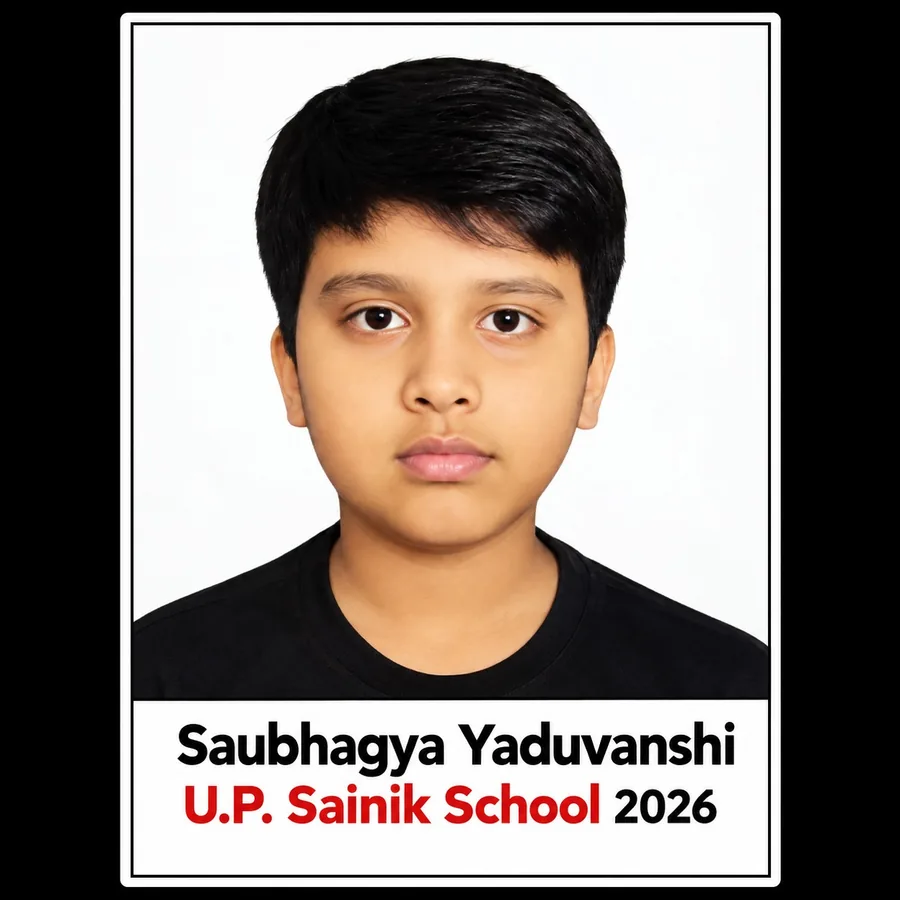
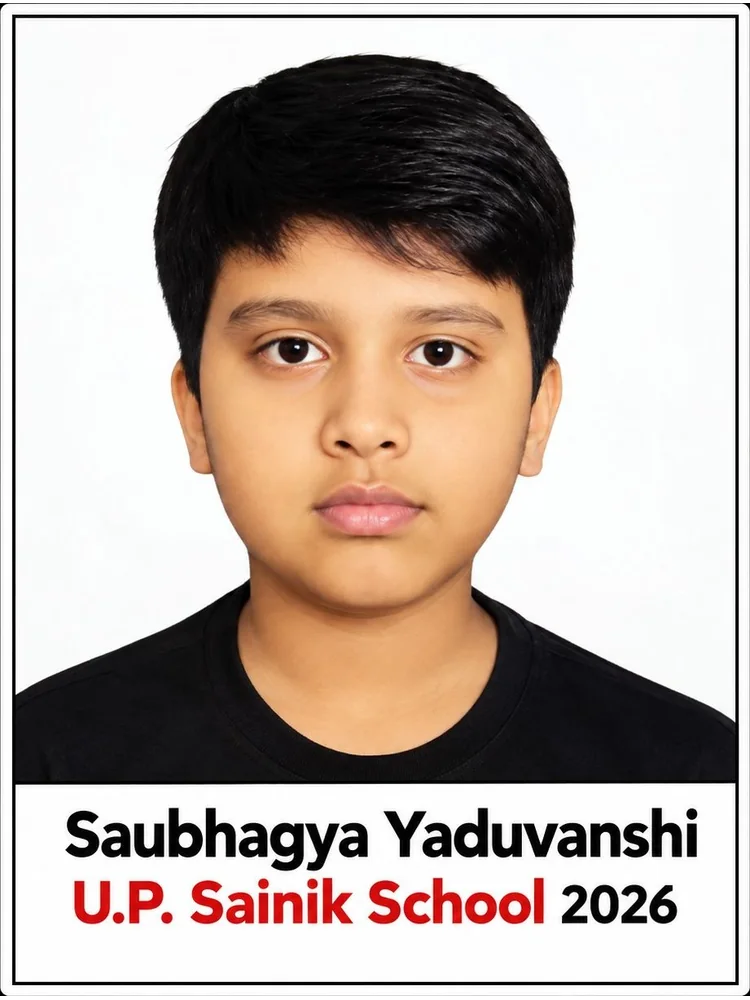
Remove the black frame from the achiever cards
The frame was baked into the source images, not drawn by CSS, so it is
trimmed out of the files themselves rather than hidden. Every card's
corners are now pure white.

With the frame gone the cards underneath are 3:4, not square, so the
slide matches that shape and the card background is white instead of
black. Names, exams and years are untouched.

diff --git a/css/style.css b/css/style.css
@@ -1200,15 +1200,16 @@ body.cur-hover .cur-ring{width:68px;height:68px;opacity:.5;}
    all — 3:2 was slicing the top and bottom off, taking people's heads. */
 .wcar--wide     .wcar__slide{aspect-ratio:4/3;flex-basis:calc((100% - 1 * clamp(10px,1.3vw,18px)) / 2);}
 
-/* Achiever cards carry the student's name, exam and year printed inside a
-   black frame. They used to be clipped to a circle, which cut the names
-   clean off — so the slide is now a square card and the whole image is
-   shown, contained rather than cropped. */
+/* Achiever cards carry the student's name, exam and year printed on them.
+   They were once clipped to a circle, which cut the names clean off, so
+   the slide is now a card showing the whole image — contained, never
+   cropped. The black frame was trimmed out of the files themselves, and
+   the cards underneath are 3:4, so the slide matches that. */
 .wcar--badge .wcar__slide{
   /* four across, not five — the printed name has to stay readable */
-  aspect-ratio:1/1;flex-basis:calc((100% - 3 * clamp(10px,1.3vw,18px)) / 4);
-  background:#000;border:1px solid rgba(12,12,14,.16);border-radius:14px;
-  box-shadow:0 16px 36px -22px rgba(12,12,14,.5);
+  aspect-ratio:3/4;flex-basis:calc((100% - 3 * clamp(10px,1.3vw,18px)) / 4);
+  background:var(--bg-2);border:1px solid rgba(12,12,14,.14);border-radius:14px;
+  box-shadow:0 16px 36px -24px rgba(12,12,14,.4);
   transition:transform .4s var(--ease-o),border-color .3s,box-shadow .3s;
 }
 .wcar--badge .wcar__slide img{border-radius:0;object-fit:contain;filter:none;}

diff --git a/gallery.html b/gallery.html
@@ -14,8 +14,8 @@
 <link rel="preconnect" href="https://fonts.gstatic.com" crossorigin>
 <link href="https://fonts.googleapis.com/css2?family=Anton&family=Archivo:ital,wght@0,400;0,500;0,600;0,700;0,800;0,900;1,500&family=IBM+Plex+Mono:wght@400;500;600&display=swap" rel="stylesheet">
 <link rel="icon" type="image/png" href="assets/favicon.png">
-<link rel="stylesheet" href="css/style.css?v=202610011436">
-<link rel="stylesheet" href="css/course.css?v=202610011436">
+<link rel="stylesheet" href="css/style.css?v=202610011445">
+<link rel="stylesheet" href="css/course.css?v=202610011445">
 </head>
 <body>
 
@@ -151,11 +151,11 @@
 <script src="https://cdn.jsdelivr.net/npm/gsap@3.12.5/dist/gsap.min.js"></script>
 <script src="https://cdn.jsdelivr.net/npm/gsap@3.12.5/dist/ScrollTrigger.min.js"></script>
 <script src="https://cdn.jsdelivr.net/npm/lenis@1.1.14/dist/lenis.min.js"></script>
-<script src="js/content.js?v=202610011436"></script>
-<script src="js/courses-data.js?v=202610011436"></script>
-<script src="js/batches.js?v=202610011436"></script>
-<script src="js/courses.js?v=202610011436"></script>
-<script src="js/gallery.js?v=202610011436"></script>
-<script src="js/main.js?v=202610011436"></script>
+<script src="js/content.js?v=202610011445"></script>
+<script src="js/courses-data.js?v=202610011445"></script>
+<script src="js/batches.js?v=202610011445"></script>
+<script src="js/courses.js?v=202610011445"></script>
+<script src="js/gallery.js?v=202610011445"></script>
+<script src="js/main.js?v=202610011445"></script>
 </body>
 </html>

diff --git a/blog-nda-age-eligibility-school-education-timeline.html b/blog-nda-age-eligibility-school-education-timeline.html
@@ -22,8 +22,8 @@
 <link rel="preconnect" href="https://fonts.gstatic.com" crossorigin>
 <link href="https://fonts.googleapis.com/css2?family=Anton&family=Archivo:ital,wght@0,400;0,500;0,600;0,700;0,800;0,900;1,500&family=IBM+Plex+Mono:wght@400;500;600&display=swap" rel="stylesheet">
 <link rel="icon" type="image/png" href="assets/favicon.png">
-<link rel="stylesheet" href="css/style.css?v=202610011436">
-<link rel="stylesheet" href="css/course.css?v=202610011436">
+<link rel="stylesheet" href="css/style.css?v=202610011445">
+<link rel="stylesheet" href="css/course.css?v=202610011445">
 <script type="application/ld+json">
 {
   "@context": "https://schema.org",
@@ -250,10 +250,10 @@
 <script src="https://cdn.jsdelivr.net/npm/gsap@3.12.5/dist/gsap.min.js"></script>
 <script src="https://cdn.jsdelivr.net/npm/gsap@3.12.5/dist/ScrollTrigger.min.js"></script>
 <script src="https://cdn.jsdelivr.net/npm/lenis@1.1.14/dist/lenis.min.js"></script>
-<script src="js/content.js?v=202610011436"></script>
-<script src="js/courses-data.js?v=202610011436"></script>
-<script src="js/batches.js?v=202610011436"></script>
-<script src="js/courses.js?v=202610011436"></script>
-<script src="js/main.js?v=202610011436"></script>
+<script src="js/content.js?v=202610011445"></script>
+<script src="js/courses-data.js?v=202610011445"></script>
+<script src="js/batches.js?v=202610011445"></script>
+<script src="js/courses.js?v=202610011445"></script>
+<script src="js/main.js?v=202610011445"></script>
 </body>
 </html>

diff --git a/blog-rimc-gk-syllabus-2026-preparation.html b/blog-rimc-gk-syllabus-2026-preparation.html
@@ -25,8 +25,8 @@
 <link rel="preconnect" href="https://fonts.gstatic.com" crossorigin>
 <link href="https://fonts.googleapis.com/css2?family=Anton&family=Archivo:ital,wght@0,400;0,500;0,600;0,700;0,800;0,900;1,500&family=IBM+Plex+Mono:wght@400;500;600&display=swap" rel="stylesheet">
 <link rel="icon" type="image/png" href="assets/favicon.png">
-<link rel="stylesheet" href="css/style.css?v=202610011436">
-<link rel="stylesheet" href="css/course.css?v=202610011436">
+<link rel="stylesheet" href="css/style.css?v=202610011445">
+<link rel="stylesheet" href="css/course.css?v=202610011445">
 <script type="application/ld+json">
 {
   "@context": "https://schema.org",
@@ -725,10 +725,10 @@
 <script src="https://cdn.jsdelivr.net/npm/gsap@3.12.5/dist/gsap.min.js"></script>
 <script src="https://cdn.jsdelivr.net/npm/gsap@3.12.5/dist/ScrollTrigger.min.js"></script>
 <script src="https://cdn.jsdelivr.net/npm/lenis@1.1.14/dist/lenis.min.js"></script>
-<script src="js/content.js?v=202610011436"></script>
-<script src="js/courses-data.js?v=202610011436"></script>
-<script src="js/batches.js?v=202610011436"></script>
-<script src="js/courses.js?v=202610011436"></script>
-<script src="js/main.js?v=202610011436"></script>
+<script src="js/content.js?v=202610011445"></script>
+<script src="js/courses-data.js?v=202610011445"></script>
+<script src="js/batches.js?v=202610011445"></script>
+<script src="js/courses.js?v=202610011445"></script>
+<script src="js/main.js?v=202610011445"></script>
 </body>
 </html>

diff --git a/blog-before-you-apply-sainik-school.html b/blog-before-you-apply-sainik-school.html
@@ -9,8 +9,8 @@
 <link rel="preconnect" href="https://fonts.gstatic.com" crossorigin>
 <link href="https://fonts.googleapis.com/css2?family=Anton&family=Archivo:ital,wght@0,400;0,500;0,600;0,700;0,800;0,900;1,500&family=IBM+Plex+Mono:wght@400;500;600&display=swap" rel="stylesheet">
 <link rel="icon" type="image/png" href="assets/favicon.png">
-<link rel="stylesheet" href="css/style.css?v=202610011436">
-<link rel="stylesheet" href="css/course.css?v=202610011436">
+<link rel="stylesheet" href="css/style.css?v=202610011445">
+<link rel="stylesheet" href="css/course.css?v=202610011445">
 <script type="application/ld+json">
 {
   "@context": "https://schema.org",
@@ -250,10 +250,10 @@
 <script src="https://cdn.jsdelivr.net/npm/gsap@3.12.5/dist/gsap.min.js"></script>
 <script src="https://cdn.jsdelivr.net/npm/gsap@3.12.5/dist/ScrollTrigger.min.js"></script>
 <script src="https://cdn.jsdelivr.net/npm/lenis@1.1.14/dist/lenis.min.js"></script>
-<script src="js/content.js?v=202610011436"></script>
-<script src="js/courses-data.js?v=202610011436"></script>
-<script src="js/batches.js?v=202610011436"></script>
-<script src="js/courses.js?v=202610011436"></script>
-<script src="js/main.js?v=202610011436"></script>
+<script src="js/content.js?v=202610011445"></script>
+<script src="js/courses-data.js?v=202610011445"></script>
+<script src="js/batches.js?v=202610011445"></script>
+<script src="js/courses.js?v=202610011445"></script>
+<script src="js/main.js?v=202610011445"></script>
 </body>
 </html>

diff --git a/blog-sainik-school-myths.html b/blog-sainik-school-myths.html
@@ -9,8 +9,8 @@
 <link rel="preconnect" href="https://fonts.gstatic.com" crossorigin>
 <link href="https://fonts.googleapis.com/css2?family=Anton&family=Archivo:ital,wght@0,400;0,500;0,600;0,700;0,800;0,900;1,500&family=IBM+Plex+Mono:wght@400;500;600&display=swap" rel="stylesheet">
 <link rel="icon" type="image/png" href="assets/favicon.png">
-<link rel="stylesheet" href="css/style.css?v=202610011436">
-<link rel="stylesheet" href="css/course.css?v=202610011436">
+<link rel="stylesheet" href="css/style.css?v=202610011445">
+<link rel="stylesheet" href="css/course.css?v=202610011445">
 <script type="application/ld+json">
 {
   "@context": "https://schema.org",
@@ -262,10 +262,10 @@
 <script src="https://cdn.jsdelivr.net/npm/gsap@3.12.5/dist/gsap.min.js"></script>
 <script src="https://cdn.jsdelivr.net/npm/gsap@3.12.5/dist/ScrollTrigger.min.js"></script>
 <script src="https://cdn.jsdelivr.net/npm/lenis@1.1.14/dist/lenis.min.js"></script>
-<script src="js/content.js?v=202610011436"></script>
-<script src="js/courses-data.js?v=202610011436"></script>
-<script src="js/batches.js?v=202610011436"></script>
-<script src="js/courses.js?v=202610011436"></script>
-<script src="js/main.js?v=202610011436"></script>
+<script src="js/content.js?v=202610011445"></script>
+<script src="js/courses-data.js?v=202610011445"></script>
+<script src="js/batches.js?v=202610011445"></script>
+<script src="js/courses.js?v=202610011445"></script>
+<script src="js/main.js?v=202610011445"></script>
 </body>
 </html>

diff --git a/blog.html b/blog.html
@@ -9,8 +9,8 @@
 <link rel="preconnect" href="https://fonts.gstatic.com" crossorigin>
 <link href="https://fonts.googleapis.com/css2?family=Anton&family=Archivo:ital,wght@0,400;0,500;0,600;0,700;0,800;0,900;1,500&family=IBM+Plex+Mono:wght@400;500;600&display=swap" rel="stylesheet">
 <link rel="icon" type="image/png" href="assets/favicon.png">
-<link rel="stylesheet" href="css/style.css?v=202610011436">
-<link rel="stylesheet" href="css/course.css?v=202610011436">
+<link rel="stylesheet" href="css/style.css?v=202610011445">
+<link rel="stylesheet" href="css/course.css?v=202610011445">
 <script type="application/ld+json">
 {
   "@context": "https://schema.org",
@@ -170,10 +170,10 @@
 <script src="https://cdn.jsdelivr.net/npm/gsap@3.12.5/dist/gsap.min.js"></script>
 <script src="https://cdn.jsdelivr.net/npm/gsap@3.12.5/dist/ScrollTrigger.min.js"></script>
 <script src="https://cdn.jsdelivr.net/npm/lenis@1.1.14/dist/lenis.min.js"></script>
-<script src="js/content.js?v=202610011436"></script>
-<script src="js/courses-data.js?v=202610011436"></script>
-<script src="js/batches.js?v=202610011436"></script>
-<script src="js/courses.js?v=202610011436"></script>
-<script src="js/main.js?v=202610011436"></script>
+<script src="js/content.js?v=202610011445"></script>
+<script src="js/courses-data.js?v=202610011445"></script>
+<script src="js/batches.js?v=202610011445"></script>
+<script src="js/courses.js?v=202610011445"></script>
+<script src="js/main.js?v=202610011445"></script>
 </body>
 </html>

diff --git a/about.html b/about.html
@@ -9,8 +9,8 @@
 <link rel="preconnect" href="https://fonts.gstatic.com" crossorigin>
 <link href="https://fonts.googleapis.com/css2?family=Anton&family=Archivo:ital,wght@0,400;0,500;0,600;0,700;0,800;0,900;1,500&family=IBM+Plex+Mono:wght@400;500;600&display=swap" rel="stylesheet">
 <link rel="icon" type="image/png" href="assets/favicon.png">
-<link rel="stylesheet" href="css/style.css?v=202610011436">
-<link rel="stylesheet" href="css/course.css?v=202610011436">
+<link rel="stylesheet" href="css/style.css?v=202610011445">
+<link rel="stylesheet" href="css/course.css?v=202610011445">
 </head>
 <body>
 
@@ -255,10 +255,10 @@
 <script src="https://cdn.jsdelivr.net/npm/gsap@3.12.5/dist/gsap.min.js"></script>
 <script src="https://cdn.jsdelivr.net/npm/gsap@3.12.5/dist/ScrollTrigger.min.js"></script>
 <script src="https://cdn.jsdelivr.net/npm/lenis@1.1.14/dist/lenis.min.js"></script>
-<script src="js/content.js?v=202610011436"></script>
-<script src="js/courses-data.js?v=202610011436"></script>
-<script src="js/batches.js?v=202610011436"></script>
-<script src="js/courses.js?v=202610011436"></script>
-<script src="js/main.js?v=202610011436"></script>
+<script src="js/content.js?v=202610011445"></script>
+<script src="js/courses-data.js?v=202610011445"></script>
+<script src="js/batches.js?v=202610011445"></script>
+<script src="js/courses.js?v=202610011445"></script>
+<script src="js/main.js?v=202610011445"></script>
 </body>
 </html>

diff --git a/contact.html b/contact.html
@@ -9,8 +9,8 @@
 <link rel="preconnect" href="https://fonts.gstatic.com" crossorigin>
 <link href="https://fonts.googleapis.com/css2?family=Anton&family=Archivo:ital,wght@0,400;0,500;0,600;0,700;0,800;0,900;1,500&family=IBM+Plex+Mono:wght@400;500;600&display=swap" rel="stylesheet">
 <link rel="icon" type="image/png" href="assets/favicon.png">
-<link rel="stylesheet" href="css/style.css?v=202610011436">
-<link rel="stylesheet" href="css/course.css?v=202610011436">
+<link rel="stylesheet" href="css/style.css?v=202610011445">
+<link rel="stylesheet" href="css/course.css?v=202610011445">
 </head>
 <body>
 
@@ -231,10 +231,10 @@
 <script src="https://cdn.jsdelivr.net/npm/gsap@3.12.5/dist/gsap.min.js"></script>
 <script src="https://cdn.jsdelivr.net/npm/gsap@3.12.5/dist/ScrollTrigger.min.js"></script>
 <script src="https://cdn.jsdelivr.net/npm/lenis@1.1.14/dist/lenis.min.js"></script>
-<script src="js/content.js?v=202610011436"></script>
-<script src="js/courses-data.js?v=202610011436"></script>
-<script src="js/batches.js?v=202610011436"></script>
-<script src="js/courses.js?v=202610011436"></script>
-<script src="js/main.js?v=202610011436"></script>
+<script src="js/content.js?v=202610011445"></script>
+<script src="js/courses-data.js?v=202610011445"></script>
+<script src="js/batches.js?v=202610011445"></script>
+<script src="js/courses.js?v=202610011445"></script>
+<script src="js/main.js?v=202610011445"></script>
 </body>
 </html>

diff --git a/courses.html b/courses.html
@@ -9,8 +9,8 @@
 <link rel="preconnect" href="https://fonts.gstatic.com" crossorigin>
 <link href="https://fonts.googleapis.com/css2?family=Anton&family=Archivo:ital,wght@0,400;0,500;0,600;0,700;0,800;0,900;1,500&family=IBM+Plex+Mono:wght@400;500;600&display=swap" rel="stylesheet">
 <link rel="icon" type="image/png" href="assets/favicon.png">
-<link rel="stylesheet" href="css/style.css?v=202610011436">
-<link rel="stylesheet" href="css/course.css?v=202610011436">
+<link rel="stylesheet" href="css/style.css?v=202610011445">
+<link rel="stylesheet" href="css/course.css?v=202610011445">
 </head>
 <body>
 
@@ -215,10 +215,10 @@
 <script src="https://cdn.jsdelivr.net/npm/gsap@3.12.5/dist/gsap.min.js"></script>
 <script src="https://cdn.jsdelivr.net/npm/gsap@3.12.5/dist/ScrollTrigger.min.js"></script>
 <script src="https://cdn.jsdelivr.net/npm/lenis@1.1.14/dist/lenis.min.js"></script>
-<script src="js/content.js?v=202610011436"></script>
-<script src="js/courses-data.js?v=202610011436"></script>
-<script src="js/batches.js?v=202610011436"></script>
-<script src="js/courses.js?v=202610011436"></script>
-<script src="js/main.js?v=202610011436"></script>
+<script src="js/content.js?v=202610011445"></script>
+<script src="js/courses-data.js?v=202610011445"></script>
+<script src="js/batches.js?v=202610011445"></script>
+<script src="js/courses.js?v=202610011445"></script>
+<script src="js/main.js?v=202610011445"></script>
 </body>
 </html>

diff --git a/fees.html b/fees.html
@@ -9,8 +9,8 @@
 <link rel="preconnect" href="https://fonts.gstatic.com" crossorigin>
 <link href="https://fonts.googleapis.com/css2?family=Anton&family=Archivo:ital,wght@0,400;0,500;0,600;0,700;0,800;0,900;1,500&family=IBM+Plex+Mono:wght@400;500;600&display=swap" rel="stylesheet">
 <link rel="icon" type="image/png" href="assets/favicon.png">
-<link rel="stylesheet" href="css/style.css?v=202610011436">
-<link rel="stylesheet" href="css/course.css?v=202610011436">
+<link rel="stylesheet" href="css/style.css?v=202610011445">
+<link rel="stylesheet" href="css/course.css?v=202610011445">
 </head>
 <body>
 
@@ -164,10 +164,10 @@
 <script src="https://cdn.jsdelivr.net/npm/gsap@3.12.5/dist/gsap.min.js"></script>
 <script src="https://cdn.jsdelivr.net/npm/gsap@3.12.5/dist/ScrollTrigger.min.js"></script>
 <script src="https://cdn.jsdelivr.net/npm/lenis@1.1.14/dist/lenis.min.js"></script>
-<script src="js/content.js?v=202610011436"></script>
-<script src="js/courses-data.js?v=202610011436"></script>
-<script src="js/batches.js?v=202610011436"></script>
-<script src="js/courses.js?v=202610011436"></script>
-<script src="js/main.js?v=202610011436"></script>
+<script src="js/content.js?v=202610011445"></script>
+<script src="js/courses-data.js?v=202610011445"></script>
+<script src="js/batches.js?v=202610011445"></script>
+<script src="js/courses.js?v=202610011445"></script>
+<script src="js/main.js?v=202610011445"></script>
 </body>
 </html>

diff --git a/index.html b/index.html
@@ -9,8 +9,8 @@
 <link rel="preconnect" href="https://fonts.gstatic.com" crossorigin>
 <link href="https://fonts.googleapis.com/css2?family=Anton&family=Archivo:ital,wght@0,400;0,500;0,600;0,700;0,800;0,900;1,500&family=IBM+Plex+Mono:wght@400;500;600&display=swap" rel="stylesheet">
 <link rel="icon" type="image/png" href="assets/favicon.png">
-<link rel="stylesheet" href="css/style.css?v=202610011436">
-<link rel="stylesheet" href="css/course.css?v=202610011436">
+<link rel="stylesheet" href="css/style.css?v=202610011445">
+<link rel="stylesheet" href="css/course.css?v=202610011445">
 </head>
 <body>
 
@@ -330,10 +330,10 @@
 <script src="https://cdn.jsdelivr.net/npm/gsap@3.12.5/dist/gsap.min.js"></script>
 <script src="https://cdn.jsdelivr.net/npm/gsap@3.12.5/dist/ScrollTrigger.min.js"></script>
 <script src="https://cdn.jsdelivr.net/npm/lenis@1.1.14/dist/lenis.min.js"></script>
-<script src="js/content.js?v=202610011436"></script>
-<script src="js/courses-data.js?v=202610011436"></script>
-<script src="js/batches.js?v=202610011436"></script>
-<script src="js/courses.js?v=202610011436"></script>
-<script src="js/main.js?v=202610011436"></script>
+<script src="js/content.js?v=202610011445"></script>
+<script src="js/courses-data.js?v=202610011445"></script>
+<script src="js/batches.js?v=202610011445"></script>
+<script src="js/courses.js?v=202610011445"></script>
+<script src="js/main.js?v=202610011445"></script>
 </body>
 </html>
